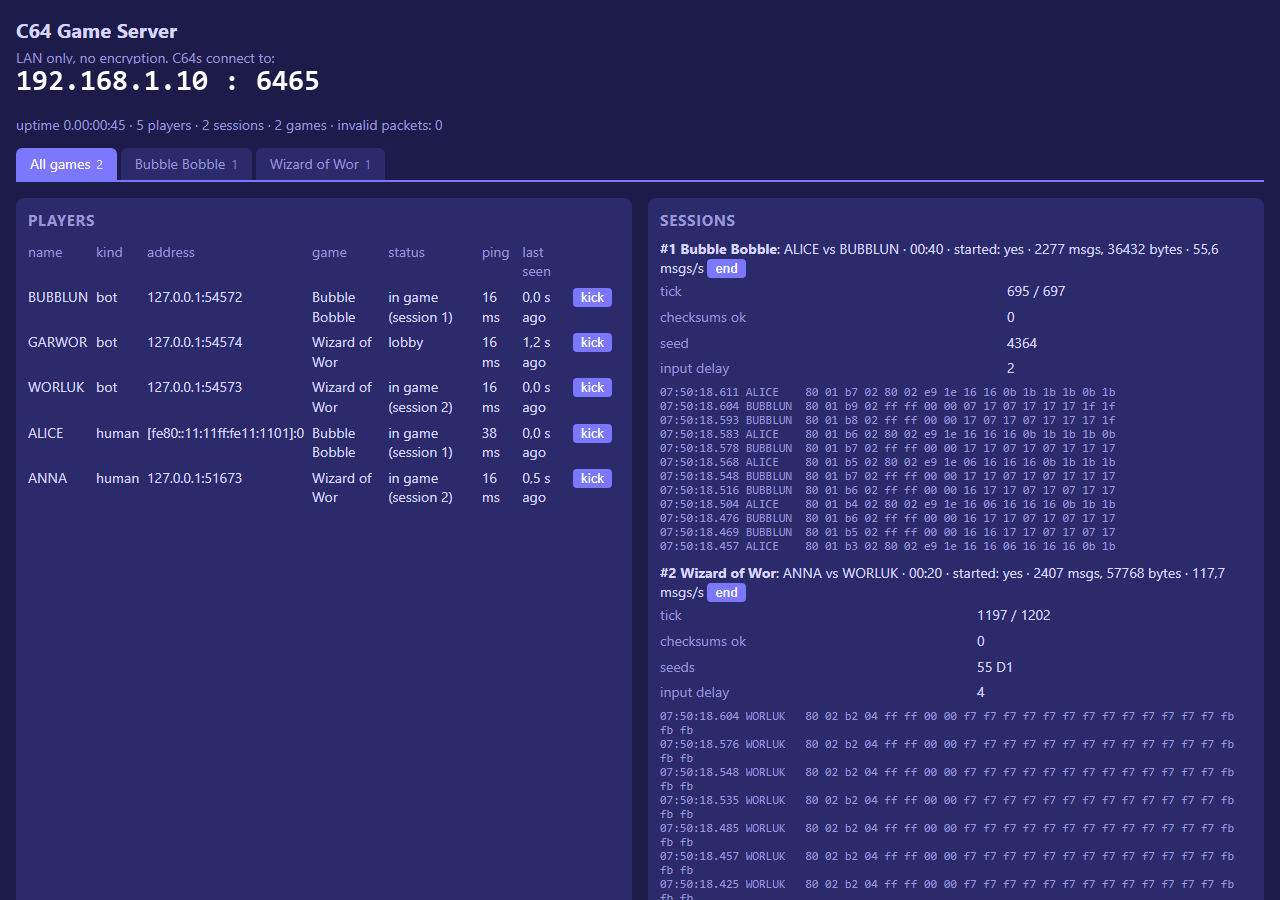
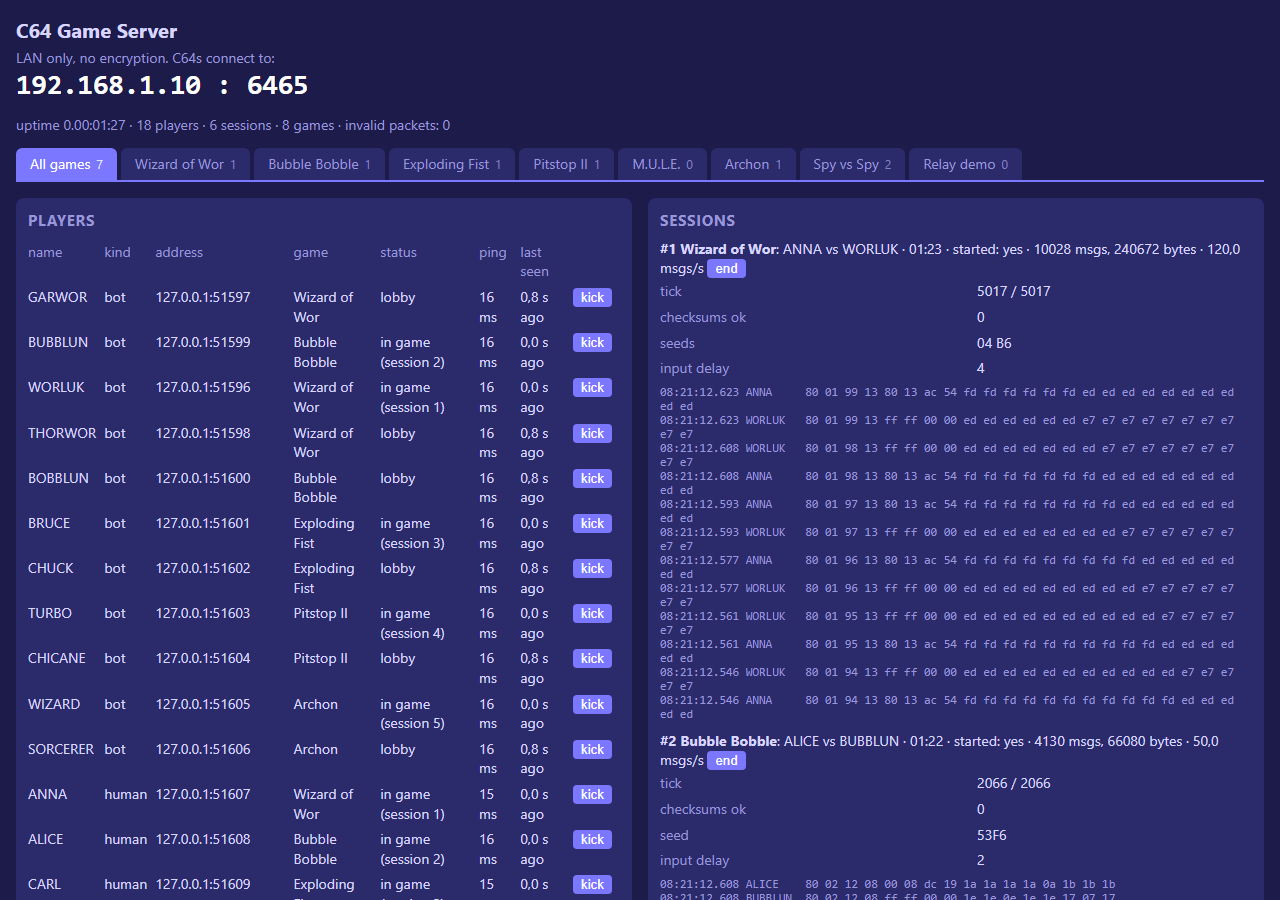
Docs: new dashboard screenshots (all eight games)
A server with all games: test clients playing the bots of Wizard of Wor,
Bubble Bobble, Exploding Fist, Pitstop II and Archon, and two VICEs at a
private Spy vs Spy table. The server's own address is masked
(192.168.1.10). The README shows the All games tab, the Spy vs Spy tab
(a table) and the Bubble Bobble tab.

diff --git a/README.md b/README.md
@@ -305,11 +305,11 @@ A live web page on port 8080. Each game has **its own tab** with its players, se
 challenges and events. A new game in `server.json` gets a new tab by itself.
 The **All games** tab shows everything. You can kick players and end sessions.
 
-![Dashboard, Bubble Bobble tab](docs/images/dashboard-bb.png)
+![Dashboard, all games](docs/images/dashboard-all.png)
 
-| All games | Wizard of Wor tab |
+| Spy vs Spy tab (a table, private) | Bubble Bobble tab |
 |---|---|
-| ![](docs/images/dashboard-all.png) | ![](docs/images/dashboard-wow.png) |
+| ![](docs/images/dashboard-spyvsspy.png) | ![](docs/images/dashboard-bb.png) |
 
 ### server.json
 

diff --git a/server/README.md b/server/README.md
@@ -158,7 +158,7 @@ Other settings, such as `idleTimeoutSeconds`, `challengeTimeoutSeconds`,
 - **kick** a player, **end** a session;
 - `/api/status` gives the same as JSON. `/?static` shows one snapshot without live updates, for screenshots.
 
-![Dashboard](../docs/images/dashboard-bb.png)
+![Dashboard](../docs/images/dashboard-all.png)
 
 ## The test bot
 
